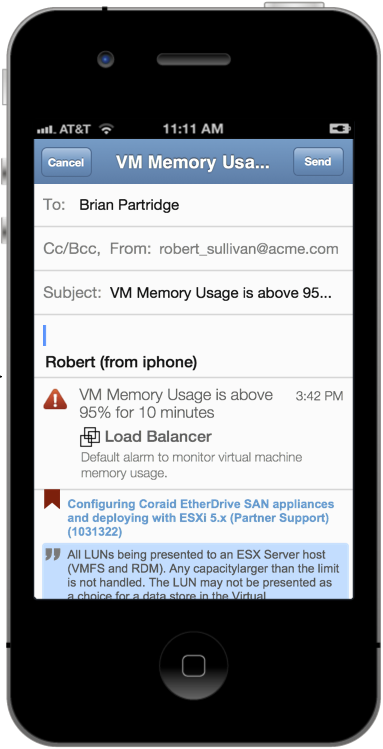
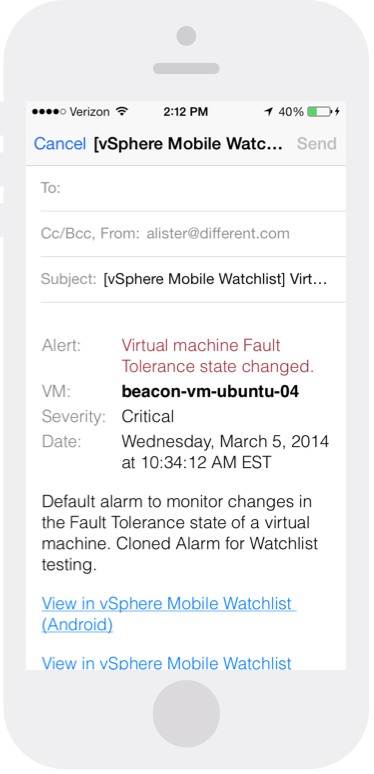
update chrome to iphone5c

diff --git a/js/config.js b/js/config.js
@@ -1,14 +1,14 @@
 var config = {
     'container': {  // the image representing the desktop & wizard chrome
         'color': '#fff',
-        'height': '749px',
-        'width': '383px',
+        'height': '774px',
+        'width': '374px',
         'top': '0'
     },
     'content': {    // the area in the wizard chrome to be populated
-        'height': '414',
-        'width': '318px',
-        'x': '34px',
-        'y': '185px'
+        'height': '504px',
+        'width': '320px',
+        'x': '26px',
+        'y': '166px'
     }
 }
